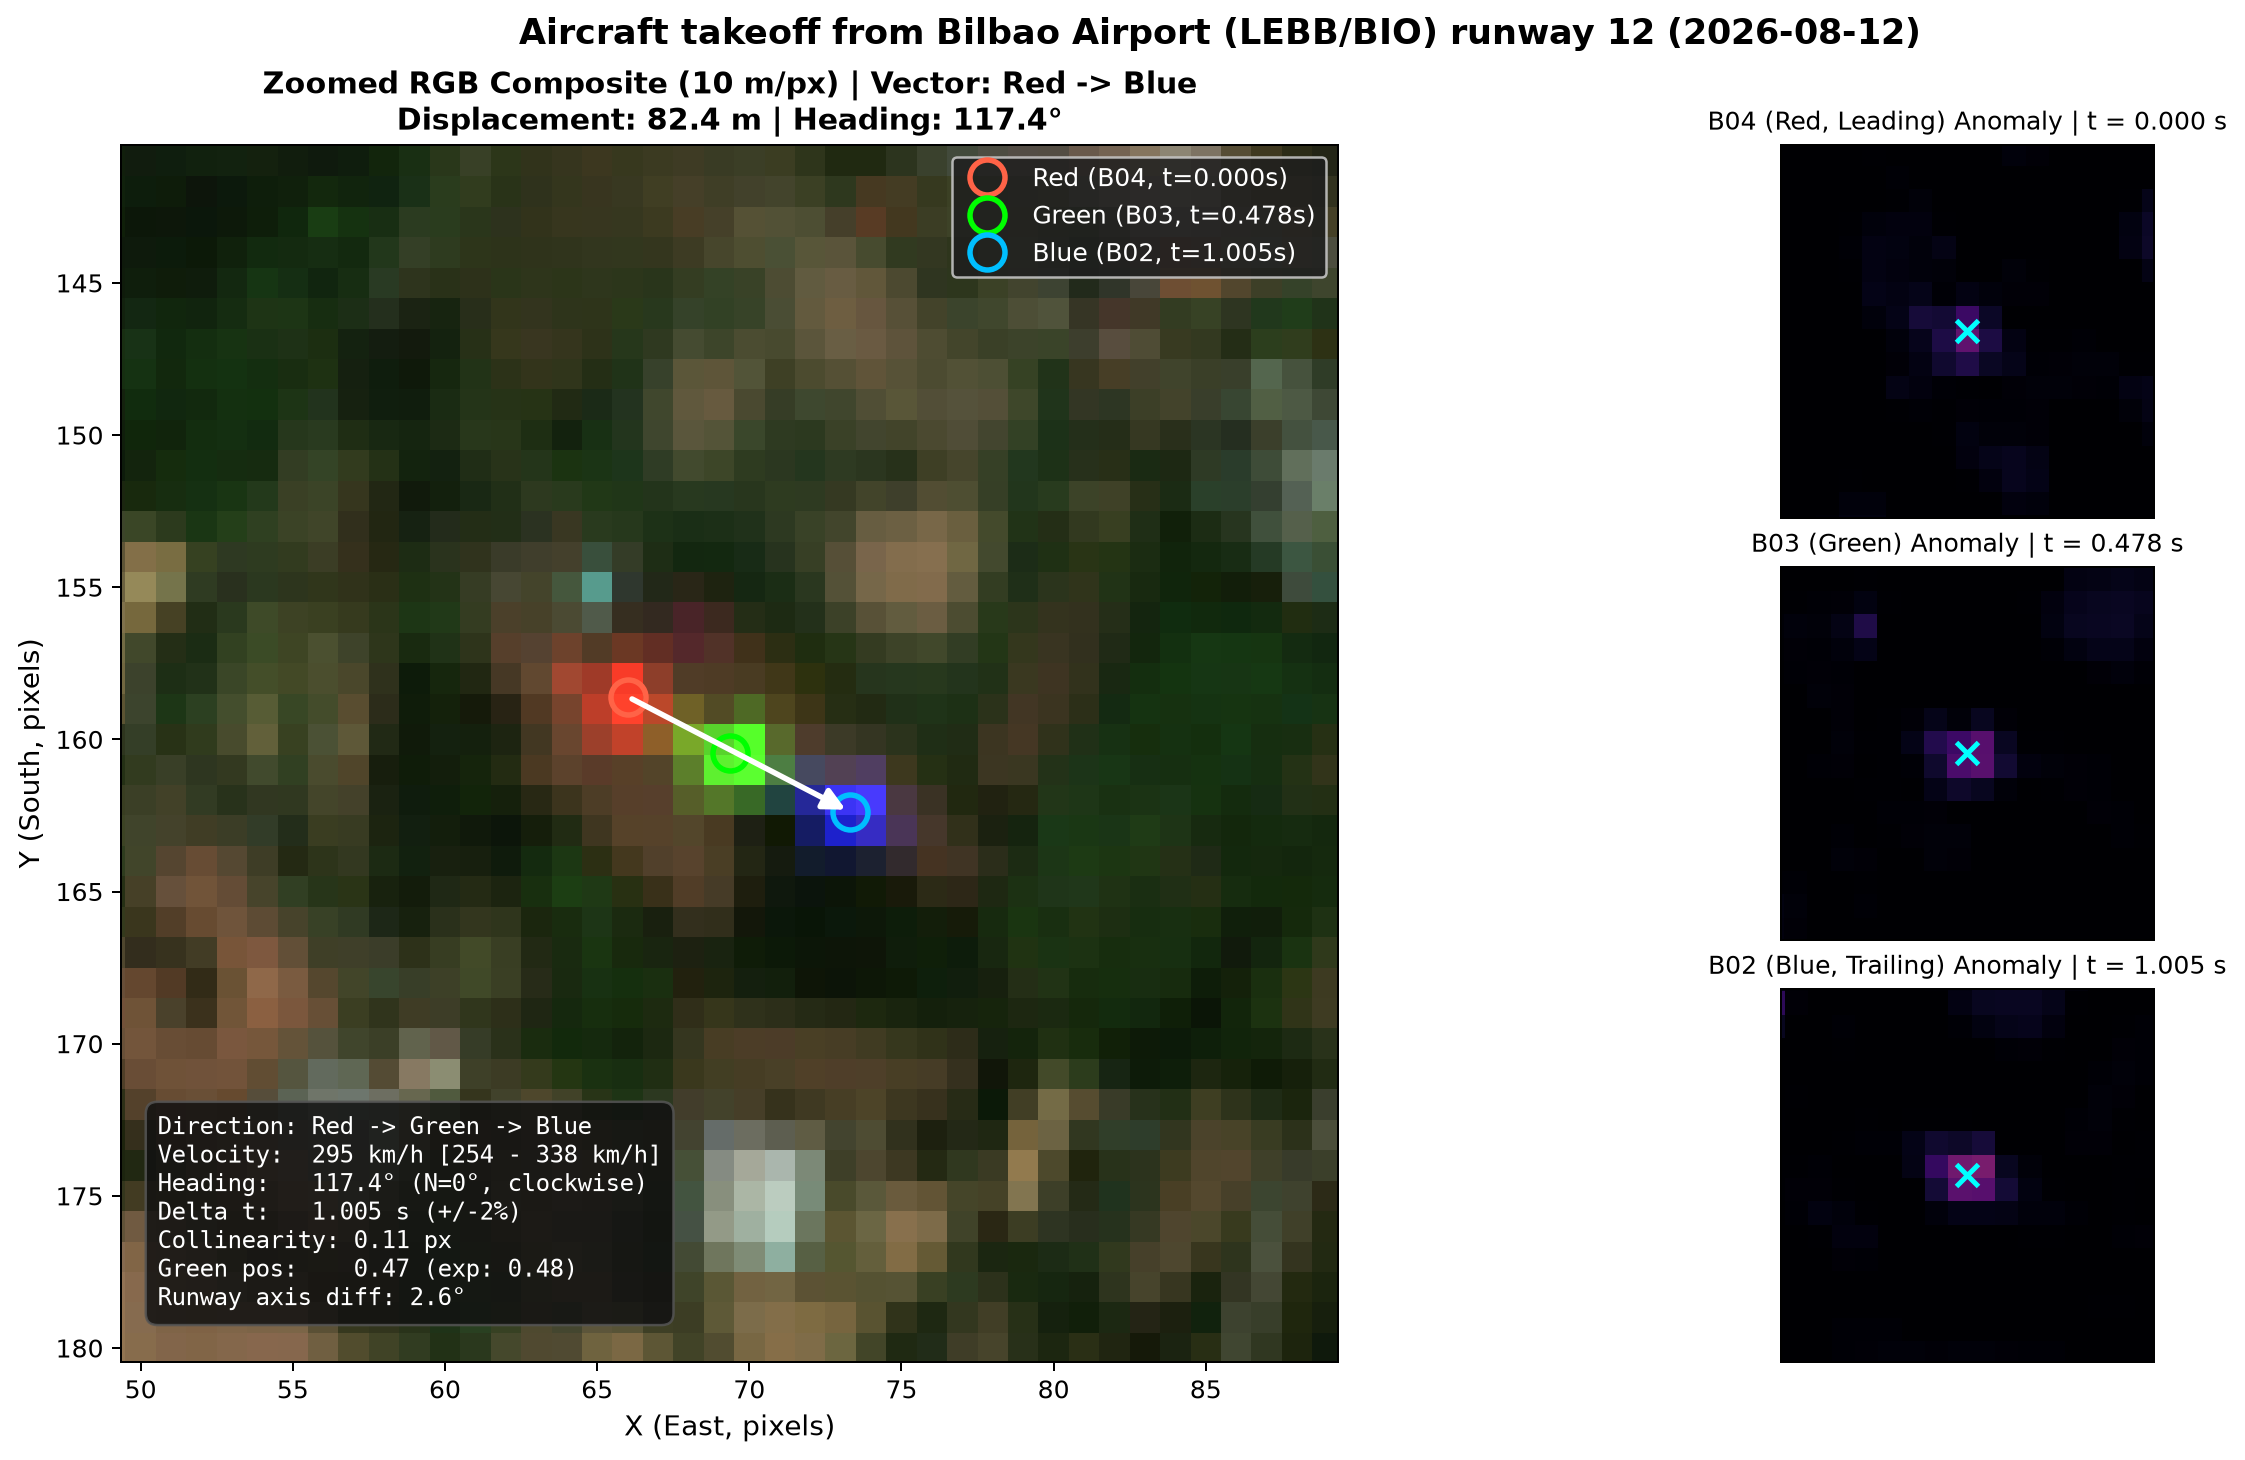
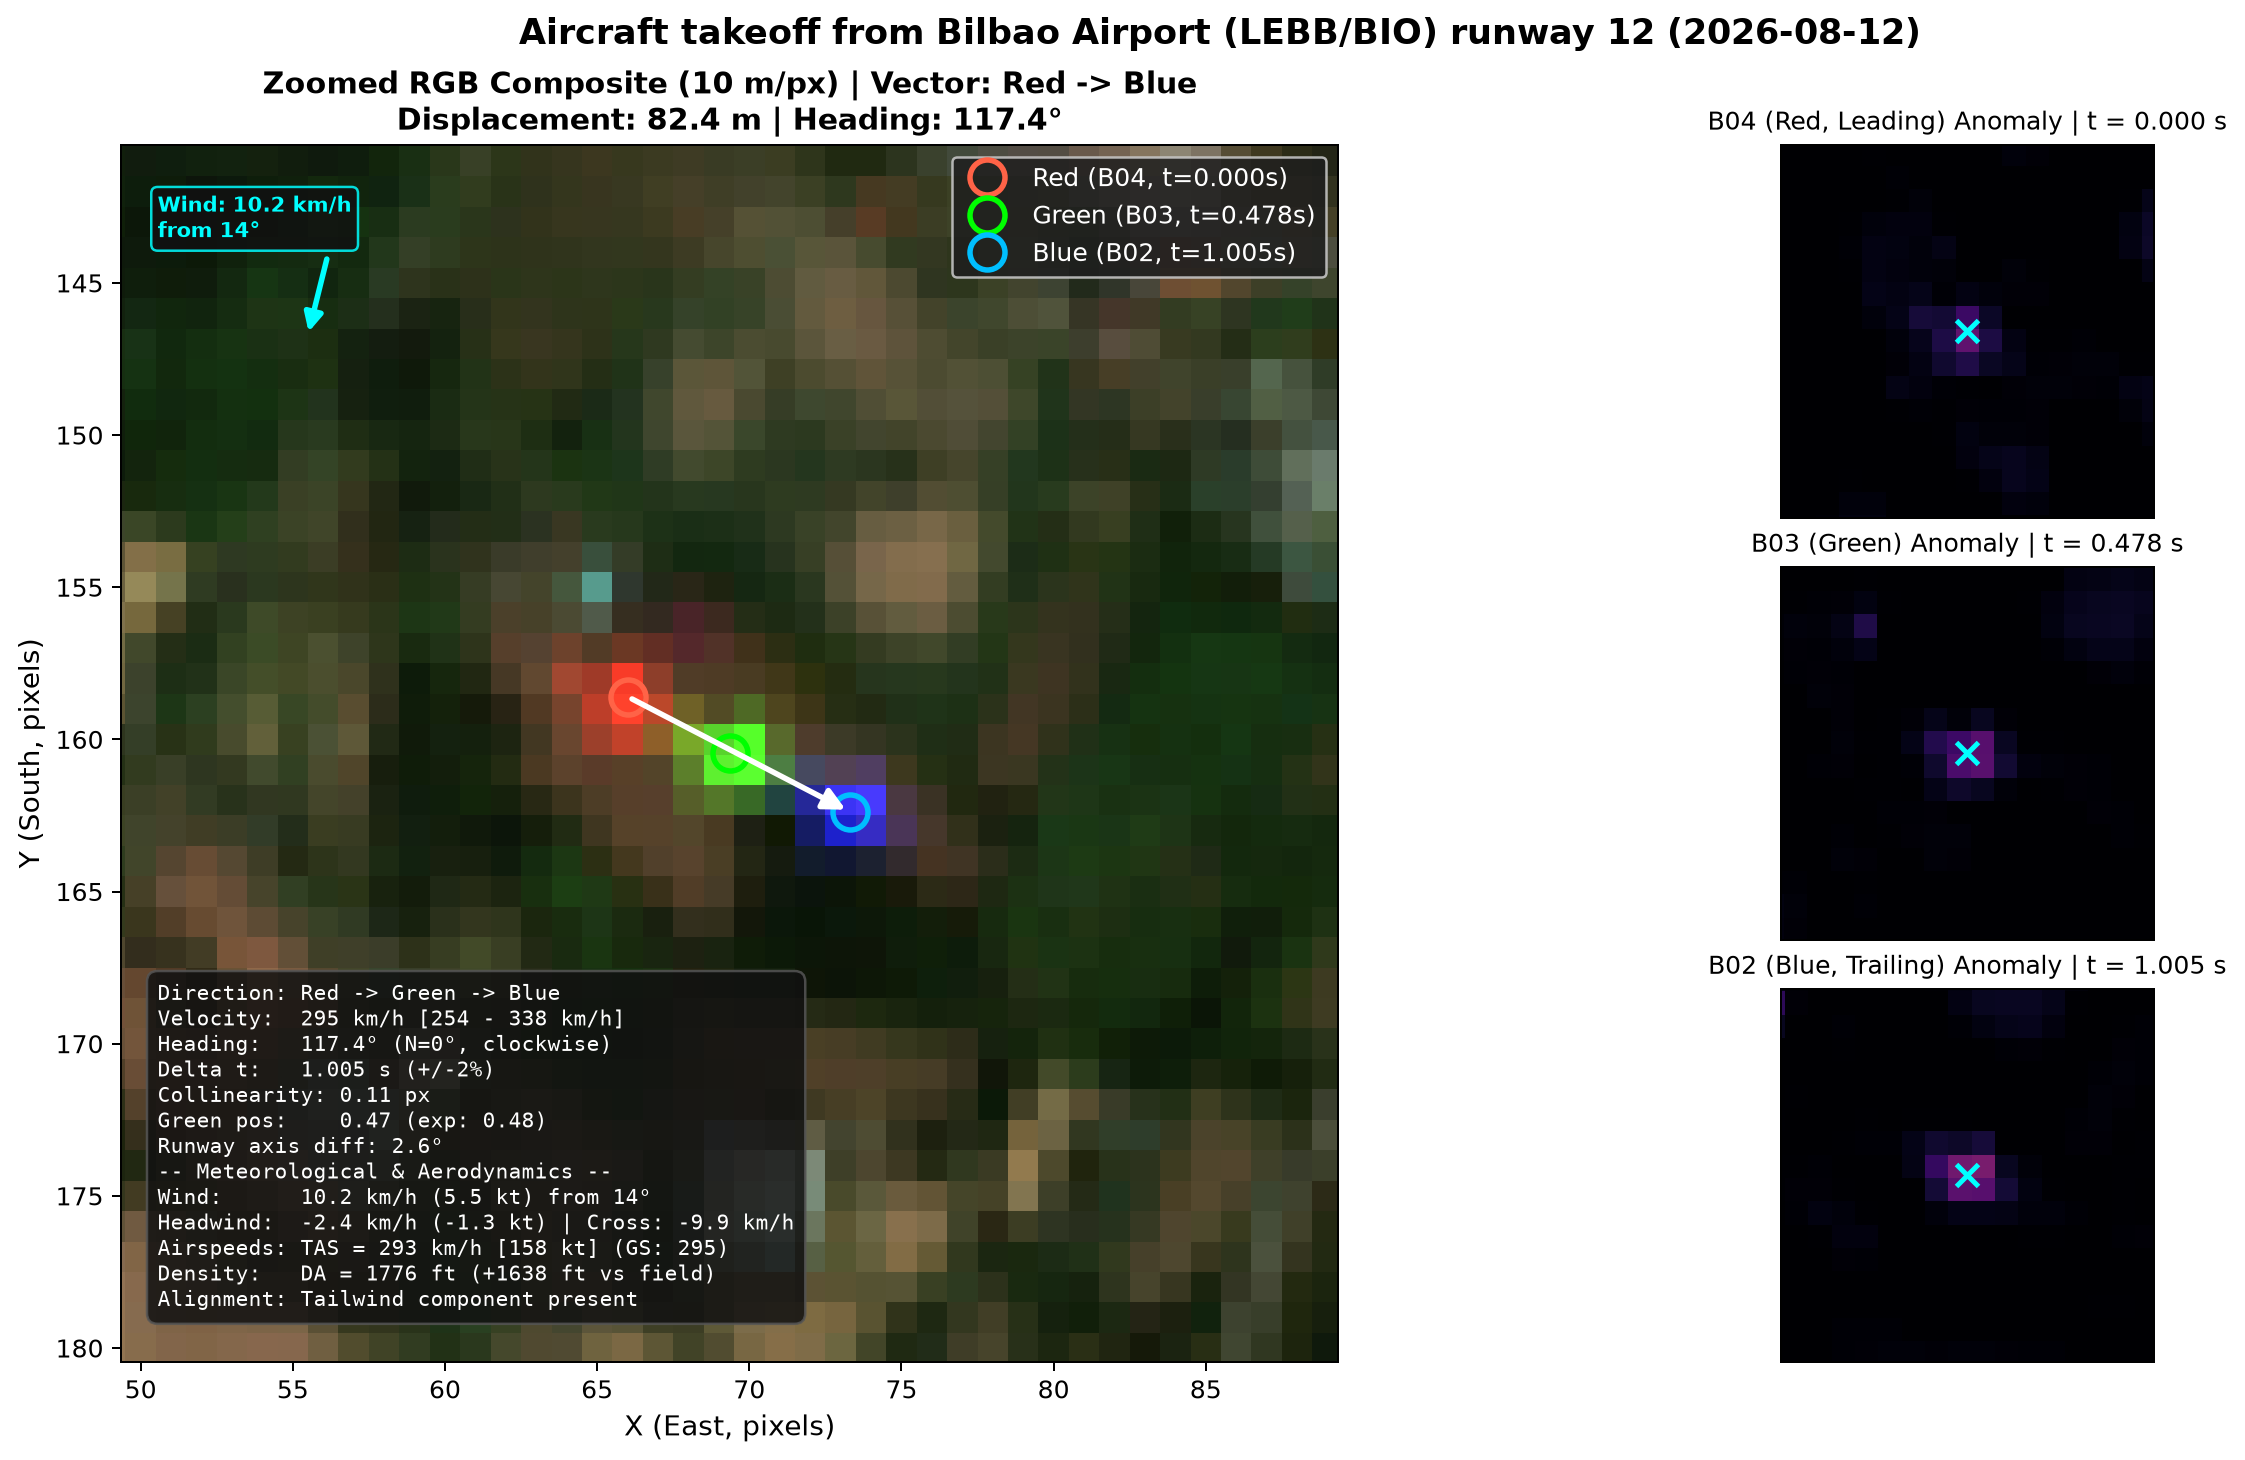
docs: document aerodynamic fusion in method.md and update READMEs

Changed region(s): [[0.0624, 0.6473, 0.3742, 0.9247], [0.0624, 0.1233, 0.1559, 0.2158]]

diff --git a/src/s2motion/measure.py b/src/s2motion/measure.py
@@ -84,15 +84,17 @@ class MeasurementResult:
 
         if self.aero is not None:
             obs = self.aero.weather
-            lines.extend([
-                "------------------------------------------------------------",
-                "Aeronautical & Weather Telemetry (Open-Meteo):",
-                f"  - Surface Weather:  {obs.temperature_c:.1f} °C | {obs.surface_pressure_hpa:.1f} hPa | Wind {obs.wind_speed_kmh:.1f} km/h ({obs.wind_speed_knots:.1f} kt) from {obs.wind_direction_deg:.0f}°",
-                f"  - Wind Components:  Headwind: {self.aero.headwind_mps * 3.6:+.1f} km/h ({self.aero.headwind_mps * 1.94384:+.1f} kt) | Crosswind: {self.aero.crosswind_mps * 3.6:+.1f} km/h",
-                f"  - Air Density:      Density Altitude: {self.aero.density_altitude_ft:.0f} ft ({self.aero.density_delta_ft:+.0f} ft vs field elevation)",
-                f"  - True Airspeed:    TAS: {self.aero.true_airspeed_kmh:.0f} km/h [{self.aero.true_airspeed_knots:.0f} kt] (Ground Speed: {self.speed_kmh:.0f} km/h)",
-                f"  - Wind Alignment:   {'Favorable headwind' if self.aero.is_favorable_headwind else 'Tailwind component present'}",
-            ])
+            lines.extend(
+                [
+                    "------------------------------------------------------------",
+                    "Aeronautical & Weather Telemetry (Open-Meteo):",
+                    f"  - Surface Weather:  {obs.temperature_c:.1f} °C | {obs.surface_pressure_hpa:.1f} hPa | Wind {obs.wind_speed_kmh:.1f} km/h ({obs.wind_speed_knots:.1f} kt) from {obs.wind_direction_deg:.0f}°",
+                    f"  - Wind Components:  Headwind: {self.aero.headwind_mps * 3.6:+.1f} km/h ({self.aero.headwind_mps * 1.94384:+.1f} kt) | Crosswind: {self.aero.crosswind_mps * 3.6:+.1f} km/h",
+                    f"  - Air Density:      Density Altitude: {self.aero.density_altitude_ft:.0f} ft ({self.aero.density_delta_ft:+.0f} ft vs field elevation)",
+                    f"  - True Airspeed:    TAS: {self.aero.true_airspeed_kmh:.0f} km/h [{self.aero.true_airspeed_knots:.0f} kt] (Ground Speed: {self.speed_kmh:.0f} km/h)",
+                    f"  - Wind Alignment:   {'Favorable headwind' if self.aero.is_favorable_headwind else 'Tailwind component present'}",
+                ]
+            )
 
         lines.append("============================================================")
         return "\n".join(lines)

diff --git a/README.md b/README.md
@@ -46,6 +46,7 @@ By estimating the **subpixel centroid** in each band, `s2motion` determines:
 2. **True geographic heading** ($0^\circ = \text{North}$, clockwise, $90^\circ = \text{East}$, $180^\circ = \text{South}$, $270^\circ = \text{West}$).
 3. **Ground velocity** with propagated uncertainty bounds.
 4. **Coherence diagnostics**: Collinearity offset of the Green detection and temporal projection consistency.
+5. **Aerodynamic & Meteorological Fusion**: Queries historical surface weather (Open-Meteo / ERA5 reanalysis) to decompose headwind/crosswind along track, resolve True Airspeed (TAS), and calculate Density Altitude (DA).
 
 ---
 
@@ -80,8 +81,8 @@ s2motion crops --start 2026-08-01 --end 2026-08-15 --max-cloud 10 --out outputs/
 # 2. Inspect a scene interactively to locate coordinate seeds (click logs x, y)
 s2motion view --config examples/loiu_2026-08-12.toml
 
-# 3. Detect subpixel centroids, calculate velocity, and export publication figure
-s2motion measure --config examples/loiu_2026-08-12.toml
+# 3. Detect subpixel centroids, calculate velocity, and export publication figure with weather telemetry
+s2motion measure --config examples/loiu_2026-08-12.toml --weather
 ```
 
 ---
@@ -95,7 +96,7 @@ s2motion measure --config examples/loiu_2026-08-12.toml
 #### Full Scene Overview (Uncropped Crop of Bilbao Airport Area)
 ![Full Scene Overview - 2026-08-12](docs/img/loiu_2026-08-12_overview.png)
 
-#### Subpixel Kinematics & Inter-Band Analysis
+#### Subpixel Kinematics & Inter-Band Analysis (with Live Weather Fusion)
 ![Case 1: Aircraft Takeoff from Bilbao Airport](docs/img/loiu_2026-08-12_measured.png)
 
 ```text
@@ -112,13 +113,21 @@ Coherence Diagnostics:
   - Green collinearity offset: 0.11 px (expected < ~1.0 px)
   - Green relative position:  0.47 (expected: 0.48, delta: 0.01)
   - Runway axis difference:   2.6 deg
+------------------------------------------------------------
+Aeronautical & Weather Telemetry (Open-Meteo):
+  - Surface Weather:  28.7 °C | 1014.4 hPa | Wind 10.2 km/h (5.5 kt) from 14°
+  - Wind Components:  Headwind: -2.4 km/h (-1.3 kt) | Crosswind: -9.9 km/h
+  - Air Density:      Density Altitude: 1776 ft (+1638 ft vs field elevation)
+  - True Airspeed:    TAS: 293 km/h [158 kt] (Ground Speed: 295 km/h)
+  - Wind Alignment:   Tailwind component present
 ============================================================
 ```
 
-**Interpretation**:
-- Ground speed of **$295 \text{ km/h}$** ($82.0 \text{ m/s}$) corresponds to standard commercial jet rotation ($V_r$).
-- The measured heading of **$117.4^\circ$** aligns with the runway 12 axis within **$2.6^\circ$**.
-- Subpixel collinearity offset of **$0.11\text{ px}$** and green fraction **$0.47$** (vs. theoretical $0.476$) confirm strict adherence to Sentinel-2 pushbroom physics.
+**Aerodynamic & Physical Interpretation**:
+- **Rotation speed**: Ground speed of **$295 \text{ km/h}$** ($82.0 \text{ m/s}$) corresponds to standard commercial twin-jet rotation ($V_r$).
+- **Runway alignment**: Measured heading of **$117.4^\circ$** aligns with the runway 12 centerline within **$2.6^\circ$**.
+- **Atmospheric density impact**: At $28.7^\circ\text{C}$ on a warm August day, the airport's **Density Altitude** rises to **$1,776\text{ ft}$** ($+1,638\text{ ft}$ above the field elevation of $138\text{ ft}$). Thinner air reduces wing lift and engine thrust, explaining the extended takeoff ground roll and high liftoff speed.
+- **Wind resolution**: A slight tailwind component ($-2.4\text{ km/h}$) reduces True Airspeed to **$293\text{ km/h}$** ($158\text{ kt}$), requiring the aircraft to accelerate slightly faster across the ground to attain liftoff aerodynamic pressure.
 
 ---
 
@@ -165,6 +174,7 @@ Coherence Diagnostics:
    - Accounts for $\pm 0.5\text{ px}$ subpixel localization error per endpoint.
    - Incorporates $\pm 2\%$ timing variation in $\Delta t$ resulting from optical distortion and satellite altitude perturbations ([Binet et al., 2022](https://doi.org/10.5194/isprs-annals-V-1-2022-57-2022)).
    - Always reports velocity as an explicit interval $[v_{\min}, v_{\max}]$, never as an isolated point value.
+6. **Atmospheric & Aerodynamic Fusion**: Integrates Open-Meteo reanalysis to resolve headwind/crosswind components, true airspeed (TAS), and density altitude (DA).
 
 *For full mathematical derivations, see [docs/method.md](docs/method.md).*
 

diff --git a/docs/method.md b/docs/method.md
@@ -105,3 +105,54 @@ $$\sigma_d = \sqrt{2} \cdot \sigma_{\text{centroid}} \cdot \text{GSD} = \sqrt{2}
 The rigorous speed interval is:
 $$v_{\min} = \frac{d_{\min}}{\Delta t_{\max}}, \quad v_{\max} = \frac{d_{\max}}{\Delta t_{\min}}$$
 No velocity estimate is ever reported as an isolated point value without this confidence range.
+
+---
+
+## 6. Aerodynamic & Meteorological Multimodal Fusion
+
+Ground velocity ($v_{\text{ground}}$) measured from satellite parallax captures motion relative to the Earth's surface. However, aircraft aerodynamics and performance (lift, drag, takeoff ground roll, and climb gradient) depend strictly on the **True Airspeed (TAS)** and **Air Density ($\rho$)**.
+
+By querying historical surface meteorological reanalysis (via the Open-Meteo API calibrated with ECMWF ERA5), `s2motion` fuses atmospheric state variables with orbital observations.
+
+### 6.1 Wind Decomposition along Runway Track
+
+Let $v_{\text{wind}}$ be the surface wind speed and $\theta_{\text{wind}}$ be the meteorological wind origin angle ($0^\circ$ = North, $90^\circ$ = East, angle *from* which the wind blows).
+For an aircraft with ground track heading $\theta_{\text{track}}$:
+
+$$\Delta \theta = \theta_{\text{wind}} - \theta_{\text{track}}$$
+
+The wind vector is decomposed into:
+- **Headwind Component ($v_{\text{hw}}$)**:
+  $$v_{\text{hw}} = v_{\text{wind}} \cdot \cos(\Delta \theta)$$
+  Where $v_{\text{hw}} > 0$ denotes a favorable headwind and $v_{\text{hw}} < 0$ denotes an unfavorable tailwind.
+
+- **Crosswind Component ($v_{\text{xw}}$)**:
+  $$v_{\text{xw}} = v_{\text{wind}} \cdot \sin(\Delta \theta)$$
+  Where $v_{\text{xw}} > 0$ denotes crosswind from the right and $v_{\text{xw}} < 0$ from the left.
+
+### 6.2 True Airspeed (TAS) Resolution
+
+In aeronautical flight mechanics, the relationship between True Airspeed ($v_{\text{TAS}}$), Ground Speed ($v_{\text{GS}}$), and the headwind component along track is:
+
+$$v_{\text{TAS}} = v_{\text{GS}} + v_{\text{hw}} = v_{\text{GS}} + v_{\text{wind}} \cdot \cos(\theta_{\text{wind}} - \theta_{\text{track}})$$
+
+For example, when an aircraft takes off with a slight tailwind ($v_{\text{hw}} = -2.4\text{ km/h}$), its True Airspeed is slightly lower than its Ground Speed ($293\text{ km/h}$ vs $295\text{ km/h}$), requiring a higher ground speed to generate the necessary takeoff lift.
+
+### 6.3 Density Altitude (DA) & Performance Impact
+
+Under the International Standard Atmosphere (ICAO ISA):
+- Sea level standard pressure: $P_0 = 1013.25\text{ hPa}$
+- Sea level standard temperature: $T_0 = 15.0^\circ\text{C}$
+- Lapse rate: $L = 0.0065\text{ K/m} \approx 1.98^\circ\text{C} / 1,000\text{ ft}$
+
+From station elevation ($h_{\text{elev}}$) and observed surface pressure ($QNH$):
+
+$$\text{PA} = h_{\text{elev}} + (1013.25 - QNH) \times 27.2\text{ ft/hPa}$$
+
+The ISA standard temperature at this pressure altitude is:
+$$T_{\text{ISA}} = 15^\circ\text{C} - 0.0019812 \times \text{PA}_{[\text{ft}]}$$
+
+The **Density Altitude** (the altitude in the standard atmosphere at which the air density equals the observed air density) is:
+$$\text{DA} = \text{PA} + 118.8 \cdot (T_{\text{observed}} - T_{\text{ISA}})$$
+
+**Physical Significance:** High temperatures cause the air density to decrease drastically. On a hot summer day ($28.7^\circ\text{C}$ at Bilbao Airport, elevation $138\text{ ft}$), the Density Altitude increases to $1,776\text{ ft}$ ($+1,638\text{ ft}$ above physical ground elevation). The engines produce less thrust and the wings generate less lift, explaining the aircraft's high ground speed of $295\text{ km/h}$ ($159\text{ kt}$) during rotation.

diff --git a/README.es.md b/README.es.md
@@ -52,8 +52,8 @@ s2motion crops --start 2026-08-01 --end 2026-08-15 --max-cloud 10 --out outputs/
 # 2. Abrir el visor interactivo para localizar coordenadas de semillas
 s2motion view --config examples/loiu_2026-08-12.toml
 
-# 3. Medir velocidad, rumbo, coherencia e incertidumbre con figura anotada
-s2motion measure --config examples/loiu_2026-08-12.toml
+# 3. Medir velocidad, rumbo, coherencia e incertidumbre con figura anotada y telemetría meteorológica
+s2motion measure --config examples/loiu_2026-08-12.toml --weather
 ```
 
 ---
@@ -67,7 +67,7 @@ s2motion measure --config examples/loiu_2026-08-12.toml
 #### Vista general del recorte completo (Aeropuerto de Bilbao / Loiu)
 ![Vista general 2026-08-12](docs/img/loiu_2026-08-12_overview.png)
 
-#### Análisis cinemático subpíxel y dispersión entre bandas
+#### Análisis cinemático subpíxel y fusión aerodinámica/meteorológica
 ![Despegue Loiu 2026-08-12](docs/img/loiu_2026-08-12_measured.png)
 
 ```text
@@ -84,8 +84,21 @@ Coherence Diagnostics:
   - Green collinearity offset: 0.11 px (expected < ~1.0 px)
   - Green relative position:  0.47 (expected: 0.48, delta: 0.01)
   - Runway axis difference:   2.6 deg (alineado pista 12)
+------------------------------------------------------------
+Aeronautical & Weather Telemetry (Open-Meteo):
+  - Surface Weather:  28.7 °C | 1014.4 hPa | Wind 10.2 km/h (5.5 kt) from 14°
+  - Wind Components:  Headwind: -2.4 km/h (-1.3 kt) | Crosswind: -9.9 km/h
+  - Air Density:      Density Altitude: 1776 ft (+1638 ft vs field elevation)
+  - True Airspeed:    TAS: 293 km/h [158 kt] (Ground Speed: 295 km/h)
+  - Wind Alignment:   Tailwind component present
 ============================================================
 ```
+
+**Interpretación física y aerodinámica**:
+- **Velocidad de rotación ($V_r$)**: $295\text{ km/h}$ ($82.0\text{ m/s}$) es compatible con la rotación de un bimotor comercial de medio alcance (tipo A320 o B737).
+- **Rumbo**: $117.4^\circ$, alineado a menos de $2.6^\circ$ del eje de pista 12 ($120.0^\circ$).
+- **Impacto de la densidad del aire (Altitud Densimétrica)**: A $28.7^\circ\text{C}$ en pleno mediodía estival, la **Altitud de Densidad** se eleva a **$1.776\text{ ft}$** ($+1.638\text{ ft}$ sobre los $138\text{ ft}$ de elevación del campo). El aire menos denso reduce la sustentación y el empuje de las turbinas, lo que explica la alta velocidad de carrera antes del despegue.
+- **Descomposición del viento**: Con viento de $10.2\text{ km/h}$ desde $014^\circ$, la componente de viento de cola ($-2.4\text{ km/h}$) reduce la velocidad respecto al aire (**TAS = $293\text{ km/h}$ / $158\text{ kt}$**), requiriendo que la aeronave ruede más rápido sobre el terreno para generar la sustentación aerodinámica necesaria.
 
 ---
 
@@ -129,6 +142,7 @@ Coherence Diagnostics:
    - Error de localización de centroide $\pm 0.5\text{ px}$ por extremo.
    - Variabilidad temporal en $\Delta t$ de hasta $\pm 2\%$ por distorsión óptica y altura del satélite ([Binet et al., 2022](https://doi.org/10.5194/isprs-annals-V-1-2022-57-2022)).
    - La velocidad siempre se presenta en un rango de confianza $[v_{\min}, v_{\max}]$.
+6. **Fusión meteorológica y aerodinámica**: Consulta a Open-Meteo para calcular componentes de viento en pista, velocidad verdadera (TAS) y altitud de densidad (DA).
 
 ---
 
